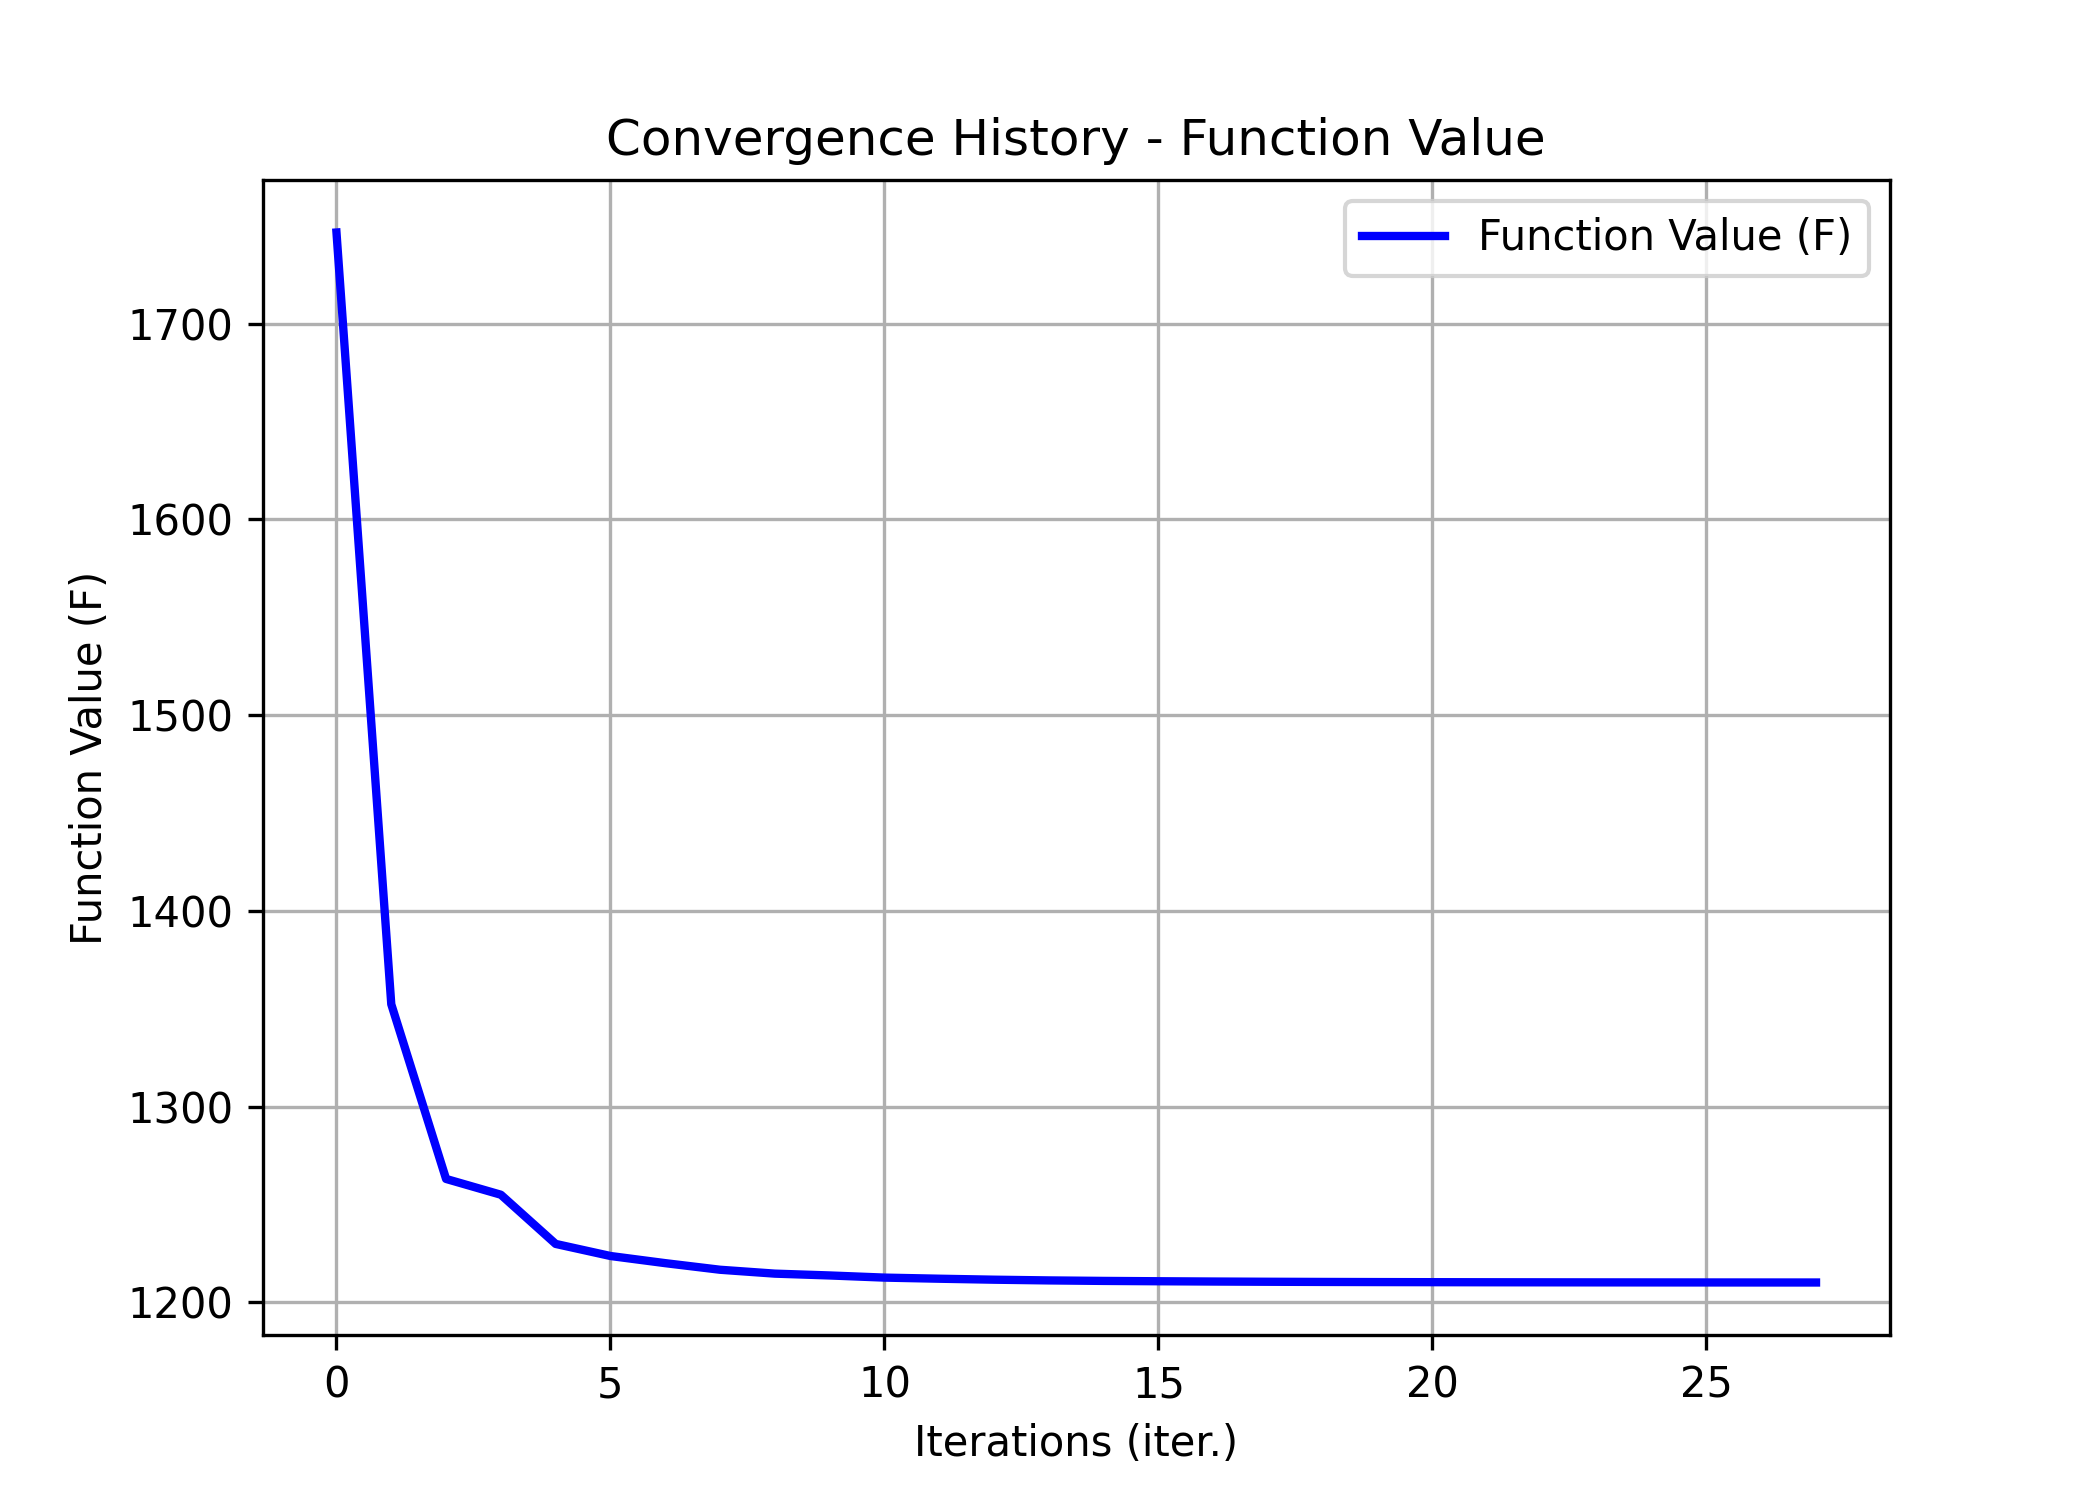
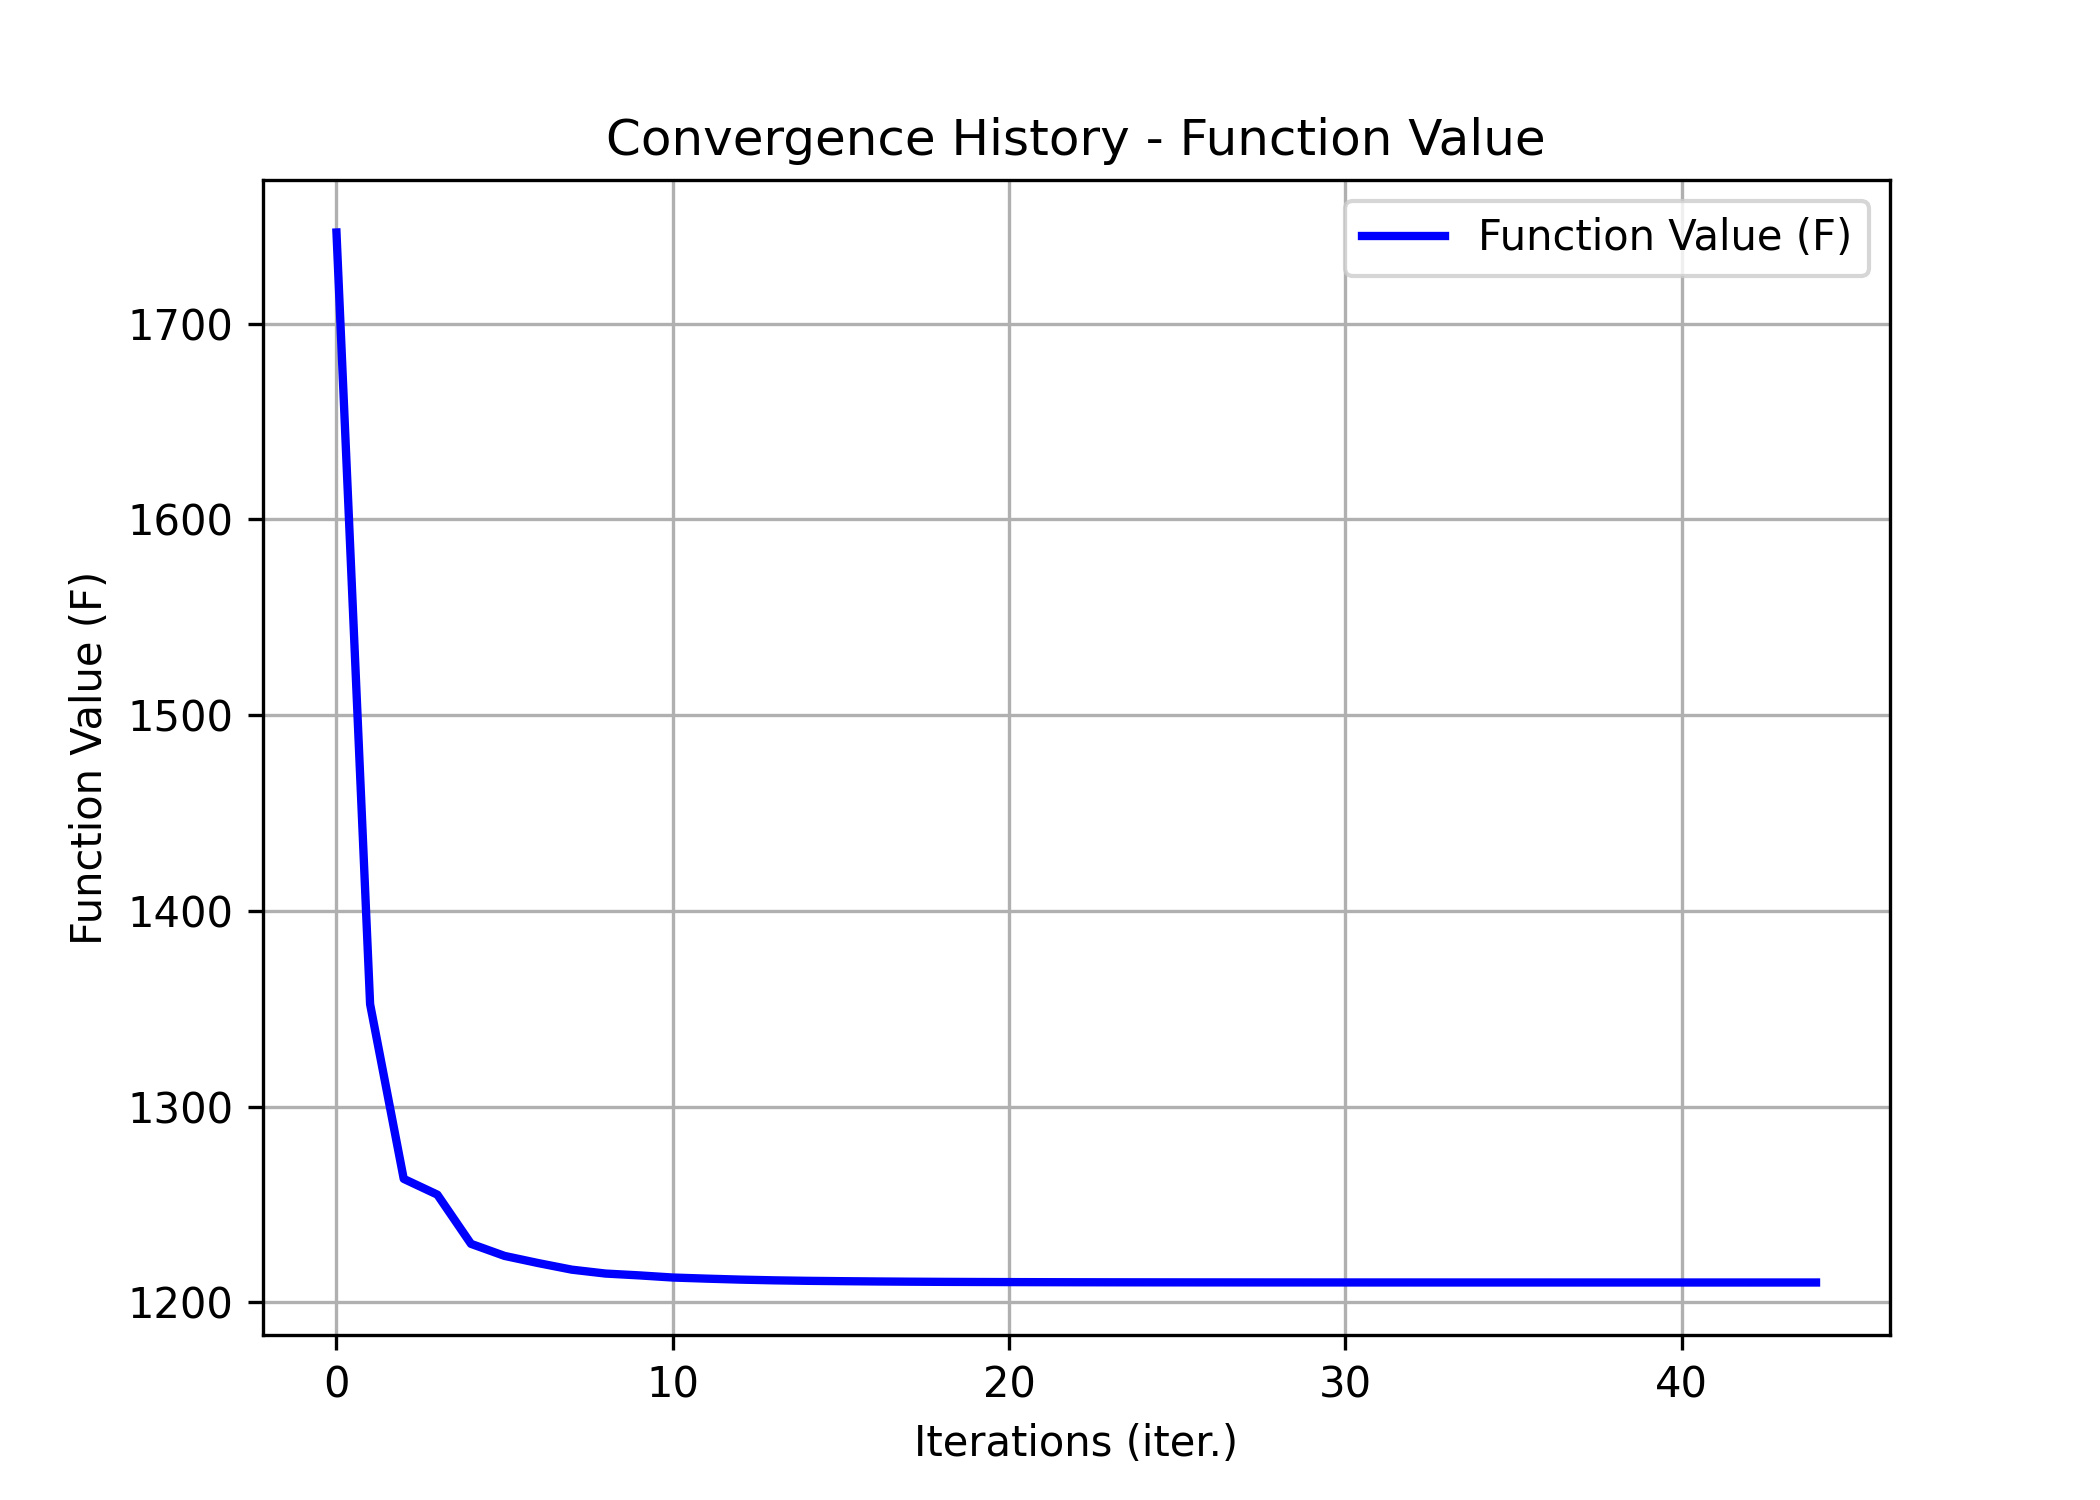
Added log scale

diff --git a/variational_reconstruction.py b/variational_reconstruction.py
@@ -236,7 +236,7 @@ step_size = (
     1e-3 if regularizer_name in ["EPLL", "PatchNR"] else 1e-1
 )  # step size in the solver
 max_iter = 1000  # maximum number of iterations in the solver
-tol = 1e-4  # tolerance for the relative error (stopping criterion)
+tol = 1e-6  # tolerance for the relative error (stopping criterion)
 
 # Call unified evaluation routine
 mean_psnr, x_out, y_out, recon_out = evaluate(

diff --git a/evaluation/methods/lbfgs.py b/evaluation/methods/lbfgs.py
@@ -180,6 +180,7 @@ def lbfgs(
     plt.figure(figsize=(7, 5))
     plt.plot(rel_step_history, color='darkblue', linewidth=2, label='Relative Step Size')
     plt.axhline(y=tol, color='red', linestyle=':', label=f'Tolerance (tol={tol})')
+    plt.yscale('log')
     plt.xlabel('Iterations (iter.)')
     plt.ylabel('||x_k - x_{k-1}|| / ||x_k||')
     plt.title('Relative Step Size vs Tolerance')
